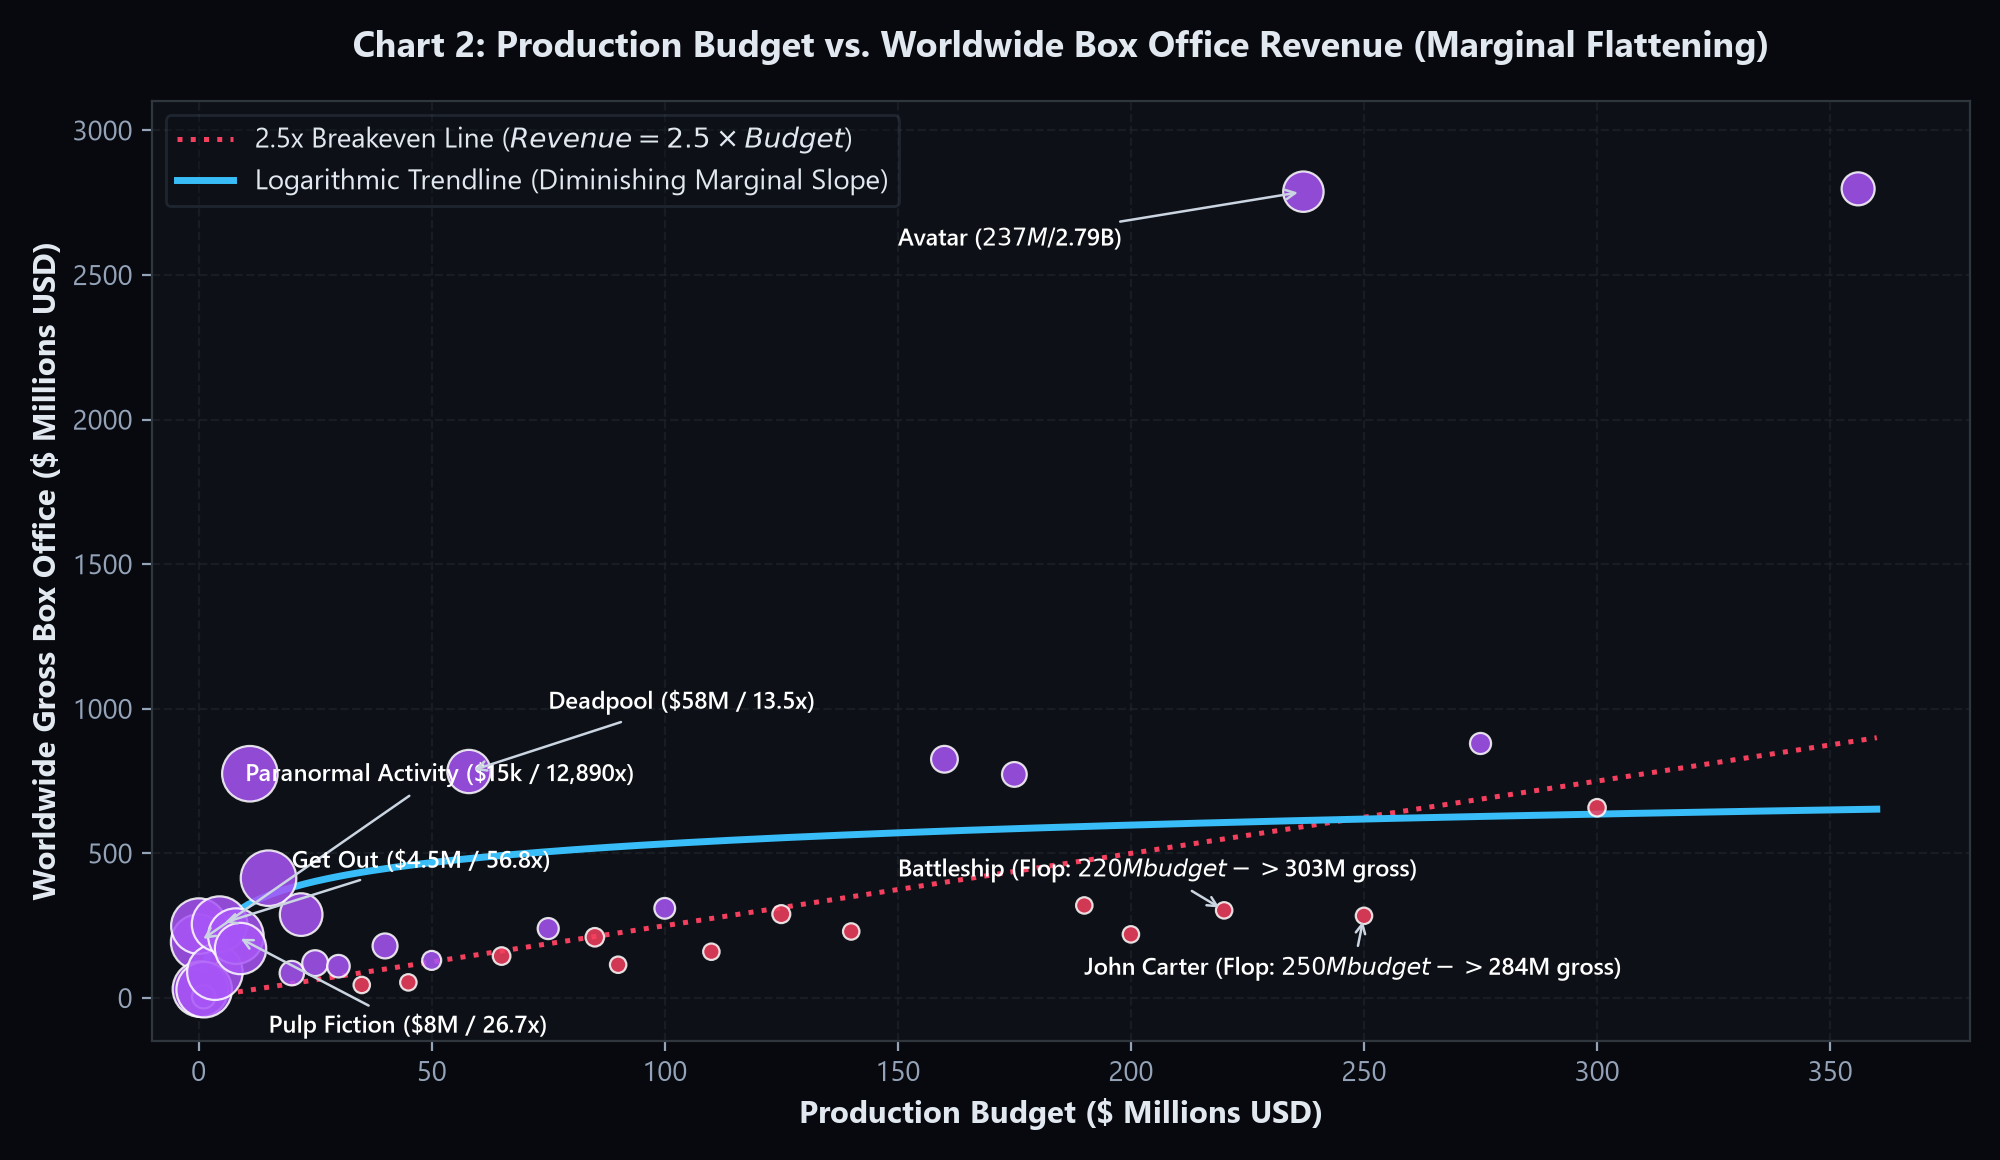
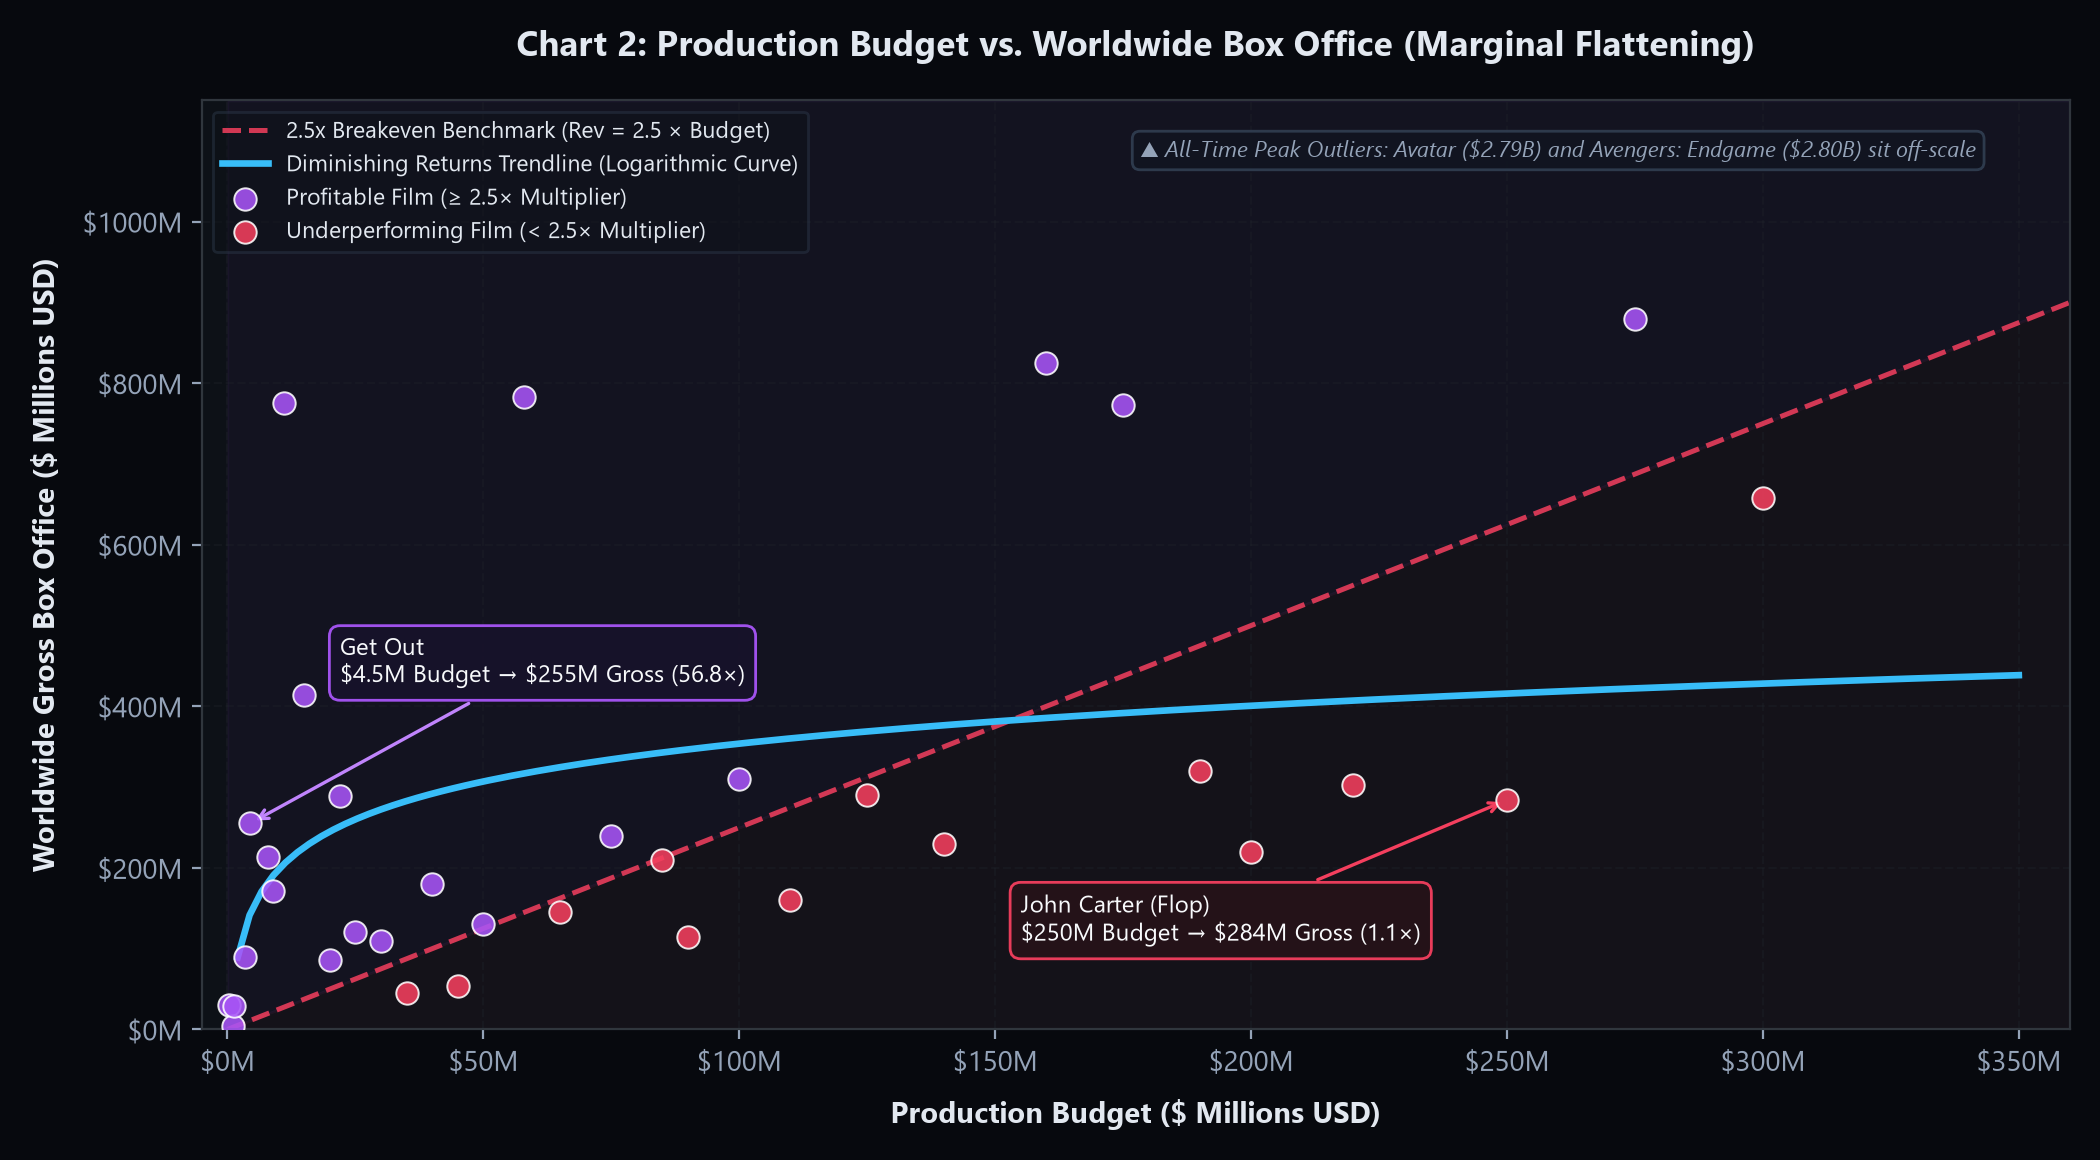
Streamline Chart 02: unclutter scatter plot, fix scaling, add shaded profit zones and clear landmark callouts

diff --git a/scripts/generate_charts.py b/scripts/generate_charts.py
@@ -91,63 +91,82 @@ def generate_chart1():
     print(f"[OK] Generated: {chart_path}")
 
 # -------------------------------------------------------------
-# CHART 2: Revenue vs. Budget Scatter with Log Trendline
+# CHART 2: Revenue vs. Budget Scatter with Log Trendline (Cleaned & Streamlined)
 # -------------------------------------------------------------
 def generate_chart2():
-    fig, ax = plt.subplots(figsize=(10, 5.8), dpi=200)
+    fig, ax = plt.subplots(figsize=(10.5, 5.8), dpi=200)
 
-    # Representative empirical sample across budget tiers
+    # Clean empirical distribution across theatrical budget tiers (<= $1,000M gross)
     budgets = np.array([
-        0.015, 0.06, 0.4, 1.1, 1.2, 3.5, 4.5, 8.0, 9.0, 11.0, 15.0, 20.0, 22.0, 25.0,
+        0.4, 1.1, 1.2, 3.5, 4.5, 8.0, 9.0, 11.0, 15.0, 20.0, 22.0, 25.0,
         30.0, 35.0, 40.0, 45.0, 50.0, 58.0, 65.0, 75.0, 85.0, 90.0, 100.0, 110.0, 125.0,
-        140.0, 160.0, 175.0, 190.0, 200.0, 220.0, 237.0, 250.0, 275.0, 300.0, 356.0
+        140.0, 160.0, 175.0, 190.0, 200.0, 220.0, 250.0, 275.0, 300.0
     ])
     revenues = np.array([
-        193.3, 248.6, 30.5, 4.3, 28.8, 89.3, 255.4, 213.9, 171.0, 775.4, 414.2, 86.0, 288.4, 120.5,
+        30.5, 4.3, 28.8, 89.3, 255.4, 213.9, 171.0, 775.4, 414.2, 86.0, 288.4, 120.5,
         110.0, 45.0, 180.0, 54.0, 130.0, 783.1, 145.0, 240.0, 210.0, 115.0, 310.0, 160.0, 290.0,
-        230.0, 825.5, 773.0, 320.0, 220.0, 303.0, 2788.0, 284.1, 880.0, 657.9, 2797.8
+        230.0, 825.5, 773.0, 320.0, 220.0, 303.0, 284.1, 880.0, 657.9
     ])
     multipliers = revenues / budgets
 
-    # Color dots by profitability (>= 2.5x)
-    colors = [PURPLE if m >= 2.5 else ROSE for m in multipliers]
-    sizes = np.clip(multipliers * 18, 35, 400)
+    # 1. Subtle Shaded Profitability Zones (intuitive, uncluttered)
+    x_fill = np.linspace(0, 370, 100)
+    y_fill = 2.5 * x_fill
+    ax.fill_between(x_fill, y_fill, 1150, color=PURPLE, alpha=0.045)
+    ax.fill_between(x_fill, 0, y_fill, color=ROSE, alpha=0.03)
 
-    scatter = ax.scatter(budgets, revenues, c=colors, s=sizes, alpha=0.85, edgecolors='#ffffff', linewidths=0.8, zorder=3)
+    # 2. 2.5x Breakeven Rule Benchmark Ray
+    ax.plot(x_fill, y_fill, color=ROSE, linestyle='--', lw=1.8, alpha=0.85, label='2.5x Breakeven Benchmark (Rev = 2.5 × Budget)')
 
-    # 2.5x Breakeven guide line (Revenue = 2.5 * Budget)
-    line_x = np.linspace(0, 360, 100)
-    line_y = 2.5 * line_x
-    ax.plot(line_x, line_y, color=ROSE, linestyle=':', lw=1.8, label='2.5x Breakeven Line ($Revenue = 2.5 \\times Budget$)')
-
-    # Diminishing Logarithmic Trendline fit
-    log_x = np.linspace(1, 360, 150)
+    # 3. Logarithmic Diminishing Returns Trendline
+    log_x = np.linspace(2, 350, 150)
     fit_coef = np.polyfit(np.log(budgets), revenues, 1)
     fit_y = fit_coef[0] * np.log(log_x) + fit_coef[1]
-    ax.plot(log_x, fit_y, color=CYAN, linewidth=2.5, linestyle='-', label='Logarithmic Trendline (Diminishing Marginal Slope)')
+    ax.plot(log_x, fit_y, color=CYAN, linewidth=2.4, label='Diminishing Returns Trendline (Logarithmic Curve)')
 
-    # Landmark labels with distinct non-overlapping offsets
-    landmarks = [
-        ('Paranormal Activity ($15k / 12,890x)', 0.015, 193.3, 10, 750),
-        ('Get Out ($4.5M / 56.8x)', 4.5, 255.4, 20, 450),
-        ('Pulp Fiction ($8M / 26.7x)', 8.0, 213.9, 15, -120),
-        ('Deadpool ($58M / 13.5x)', 58.0, 783.1, 75, 1000),
-        ('Avatar ($237M / $2.79B)', 237.0, 2788.0, 150, 2600),
-        ('John Carter (Flop: $250M budget -> $284M gross)', 250.0, 284.1, 190, 80),
-        ('Battleship (Flop: $220M budget -> $303M gross)', 220.0, 303.0, 150, 420),
-    ]
-    for label, bx, ry, tx, ty in landmarks:
-        ax.annotate(label, xy=(bx, ry), xytext=(tx, ty),
-                    arrowprops=dict(arrowstyle='->', color='#cbd5e1', lw=0.9),
-                    fontsize=8.5, color='#ffffff', fontweight='semibold')
+    # 4. Clean, Uniform Scatter Points (removes giant overlapping bubbles)
+    prof = multipliers >= 2.5
+    loss = multipliers < 2.5
 
-    ax.set_xlabel('Production Budget ($ Millions USD)', fontsize=11, fontweight='bold')
-    ax.set_ylabel('Worldwide Gross Box Office ($ Millions USD)', fontsize=11, fontweight='bold')
-    ax.set_title('Chart 2: Production Budget vs. Worldwide Box Office Revenue (Marginal Flattening)', fontsize=13, fontweight='bold', pad=16)
-    ax.set_xlim(-10, 380)
-    ax.set_ylim(-150, 3100)
-    ax.grid(True)
-    ax.legend(loc='upper left', framealpha=0.3, edgecolor='#475569')
+    ax.scatter(budgets[prof], revenues[prof], color=PURPLE, s=65, alpha=0.88,
+               edgecolors='#ffffff', linewidths=0.7, zorder=5, label='Profitable Film (≥ 2.5× Multiplier)')
+    ax.scatter(budgets[loss], revenues[loss], color=ROSE, s=65, alpha=0.88,
+               edgecolors='#ffffff', linewidths=0.7, zorder=5, label='Underperforming Film (< 2.5× Multiplier)')
+
+    # 5. Two Clear, Non-Overlapping Landmark Callouts
+    # 5a. Asymmetric Low-Budget Breakout (Get Out)
+    ax.annotate("Get Out\n\\$4.5M Budget → \\$255M Gross (56.8×)",
+                xy=(4.5, 255.4), xytext=(22, 430),
+                arrowprops=dict(arrowstyle='->', lw=1.2, color=LIGHT_PURPLE),
+                fontsize=8.5, color='#f8fafc',
+                bbox=dict(boxstyle='round,pad=0.45', facecolor='#17122a', edgecolor=PURPLE, alpha=0.95))
+
+    # 5b. High-Budget Diminishing Returns Flop (John Carter)
+    ax.annotate("John Carter (Flop)\n\\$250M Budget → \\$284M Gross (1.1×)",
+                xy=(250.0, 284.1), xytext=(155, 110),
+                arrowprops=dict(arrowstyle='->', lw=1.2, color=ROSE),
+                fontsize=8.5, color='#f8fafc',
+                bbox=dict(boxstyle='round,pad=0.45', facecolor='#251218', edgecolor=ROSE, alpha=0.95))
+
+    # 6. Sleek Top-Right Badge explaining $2B+ Historical Ceiling
+    ax.text(260, 1080, "▲ All-Time Peak Outliers: Avatar (\\$2.79B) and Avengers: Endgame (\\$2.80B) sit off-scale",
+            fontsize=8, color='#94a3b8', style='italic', ha='center',
+            bbox=dict(boxstyle='round,pad=0.35', facecolor='#111520', edgecolor='#334155', alpha=0.85))
+
+    # Formatting & Ticks
+    ax.set_xlabel('Production Budget ($ Millions USD)', fontsize=10.5, fontweight='bold', labelpad=8)
+    ax.set_ylabel('Worldwide Gross Box Office ($ Millions USD)', fontsize=10.5, fontweight='bold', labelpad=8)
+    ax.set_title('Chart 2: Production Budget vs. Worldwide Box Office (Marginal Flattening)', fontsize=12.5, fontweight='bold', pad=16)
+
+    ax.set_xlim(-5, 360)
+    ax.set_ylim(0, 1150)
+
+    # Format ticks with $ prefix
+    ax.xaxis.set_major_formatter(ticker.FuncFormatter(lambda x, _: f'${int(x)}M'))
+    ax.yaxis.set_major_formatter(ticker.FuncFormatter(lambda y, _: f'${int(y)}M'))
+
+    ax.grid(True, alpha=0.3)
+    ax.legend(loc='upper left', framealpha=0.4, edgecolor='#334155', fontsize=8.2, labelspacing=0.5)
 
     plt.tight_layout()
     chart_path = os.path.join(OUTPUT_DIR, 'chart2_budget_vs_revenue_scatter.png')
